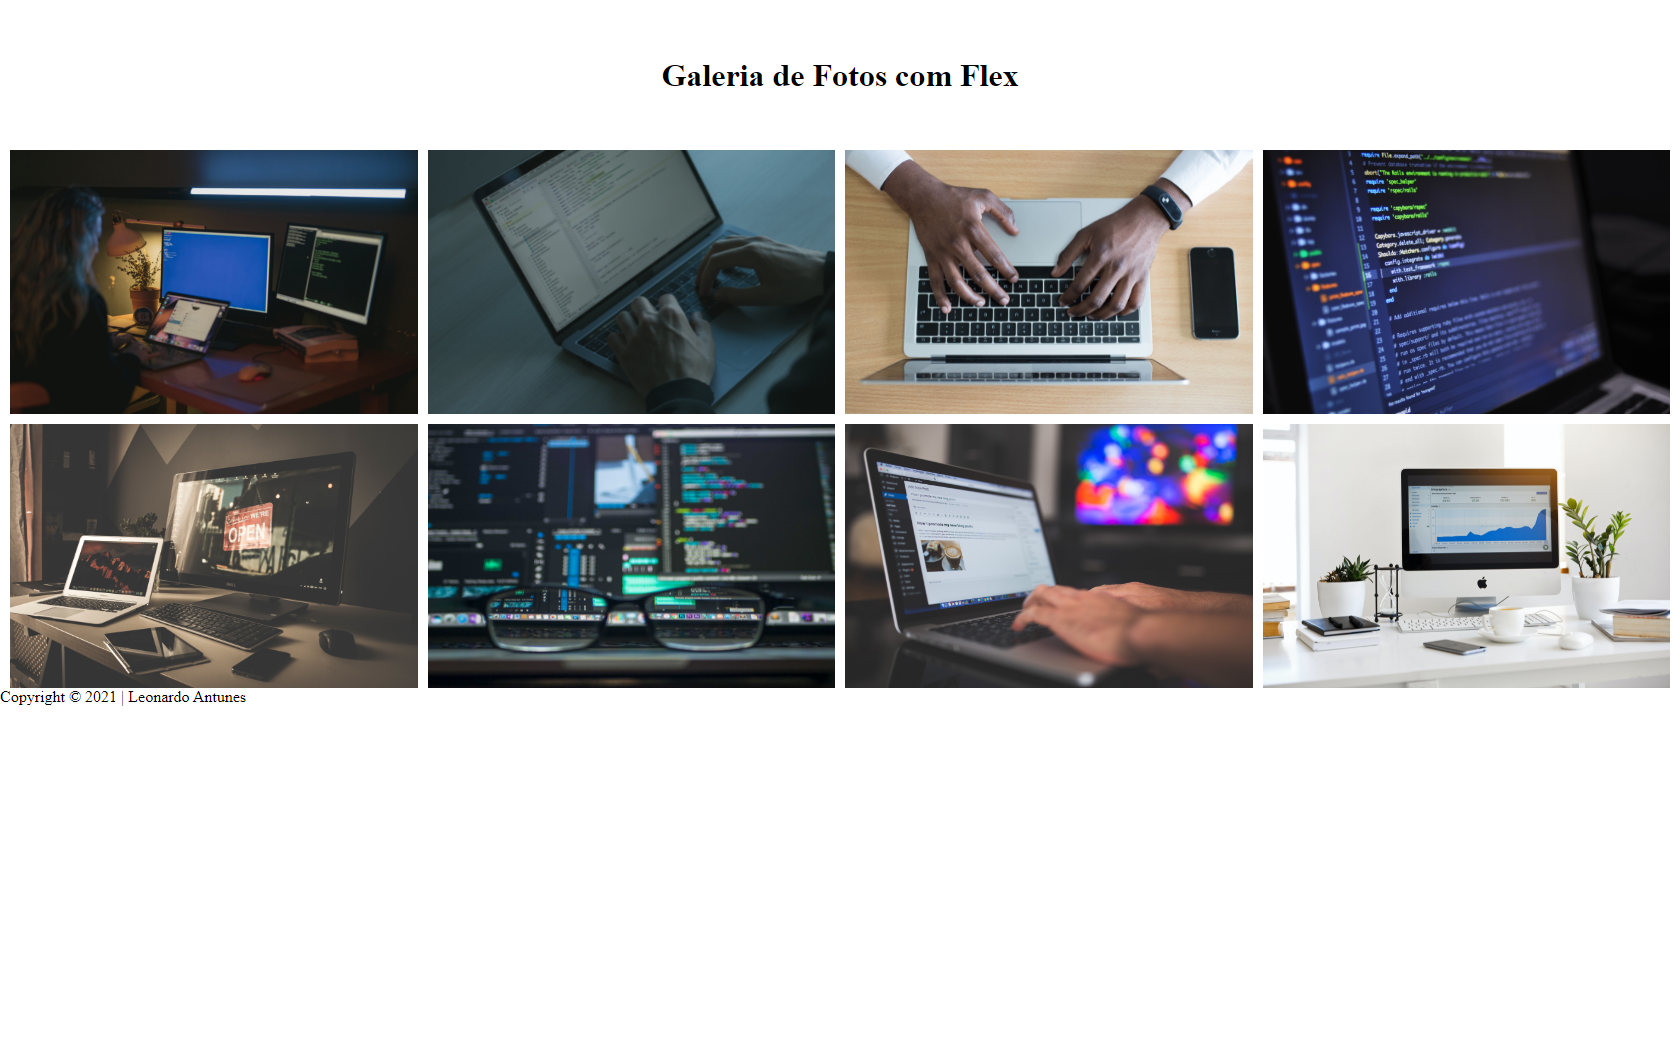
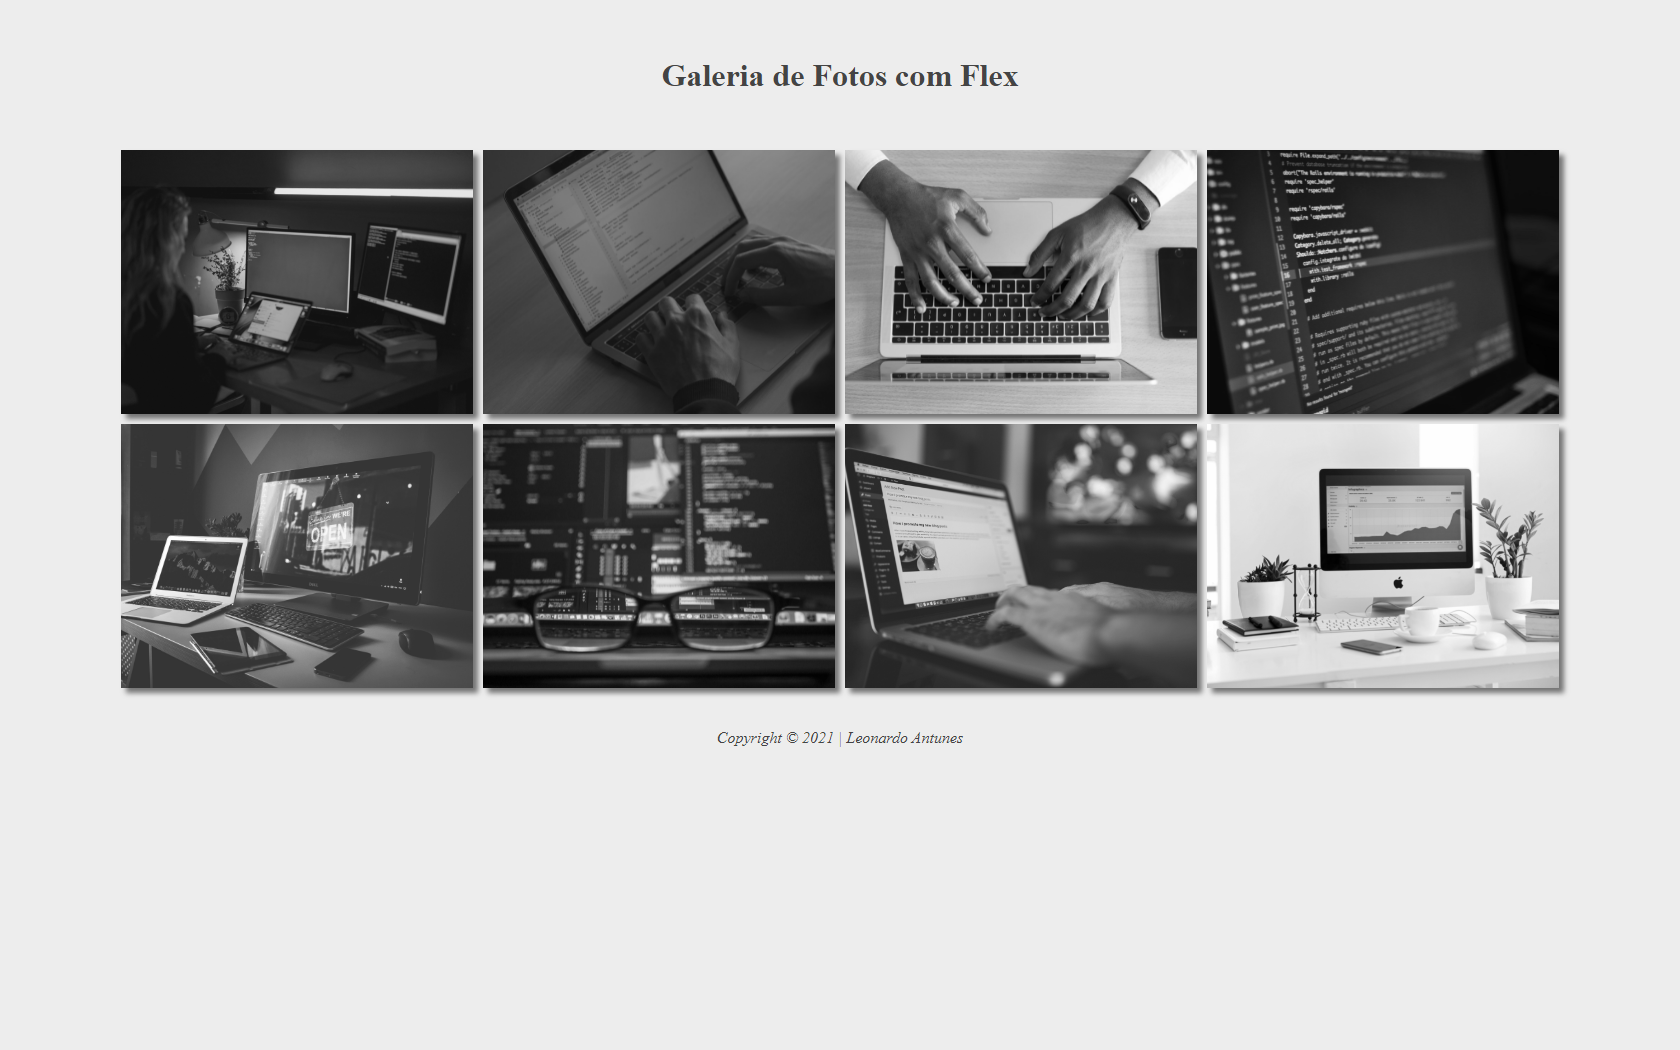
mudou img do README.md

diff --git a/style.css b/style.css
@@ -40,7 +40,7 @@ header {
 
     overflow: hidden;
 
-    box-shadow: 5px 5px 5px #999999;
+    box-shadow: 5px 5px 5px #757575;
 }
 
 .galeria-container .galeria-item img {
